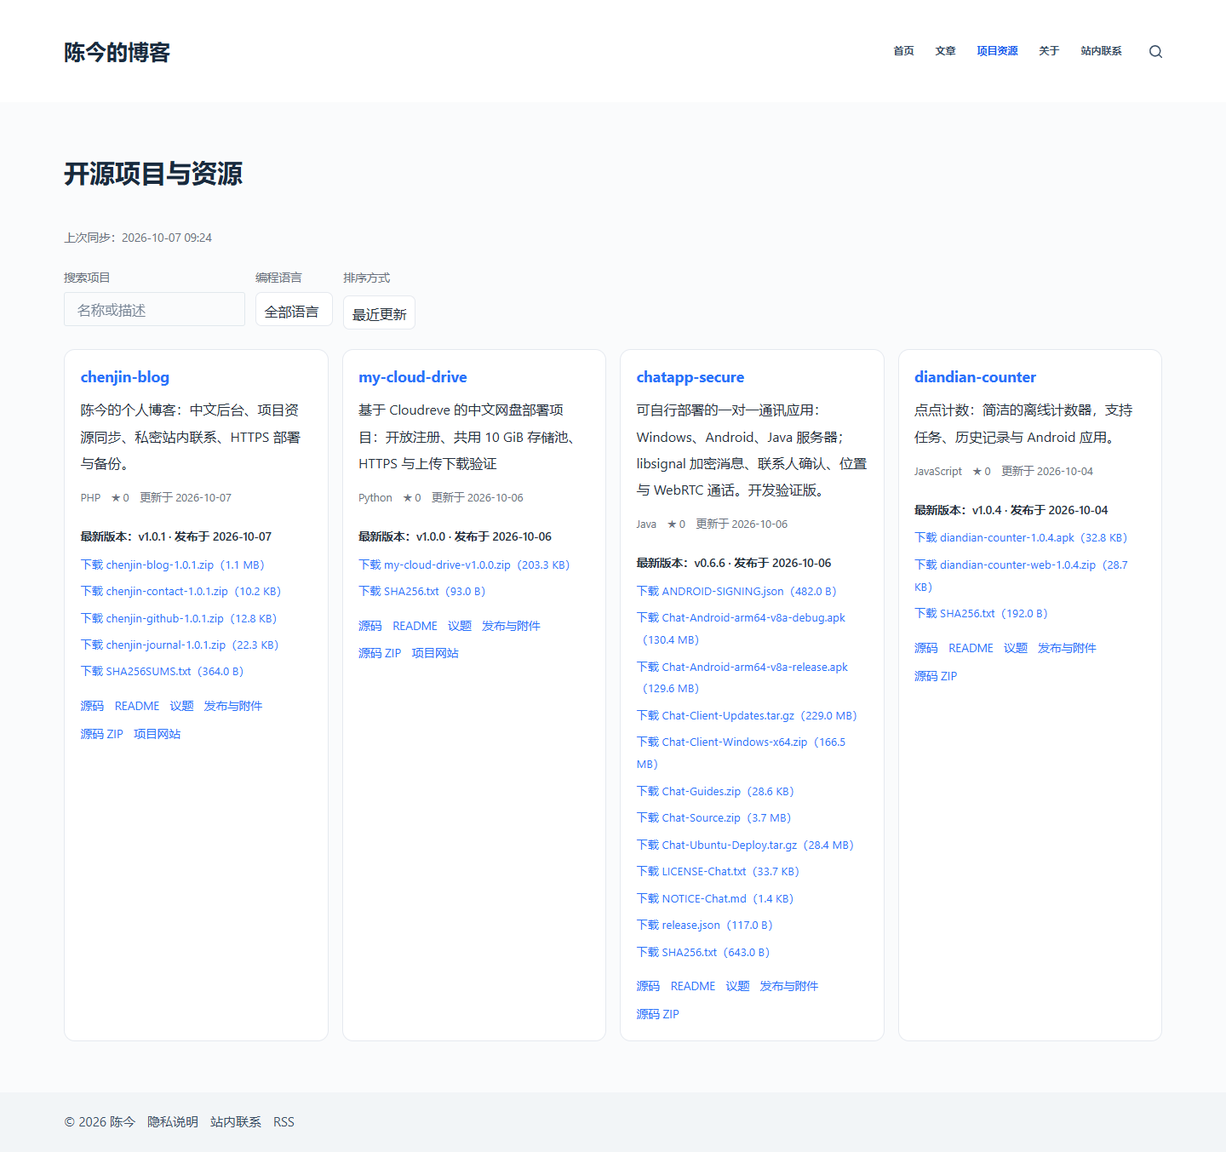
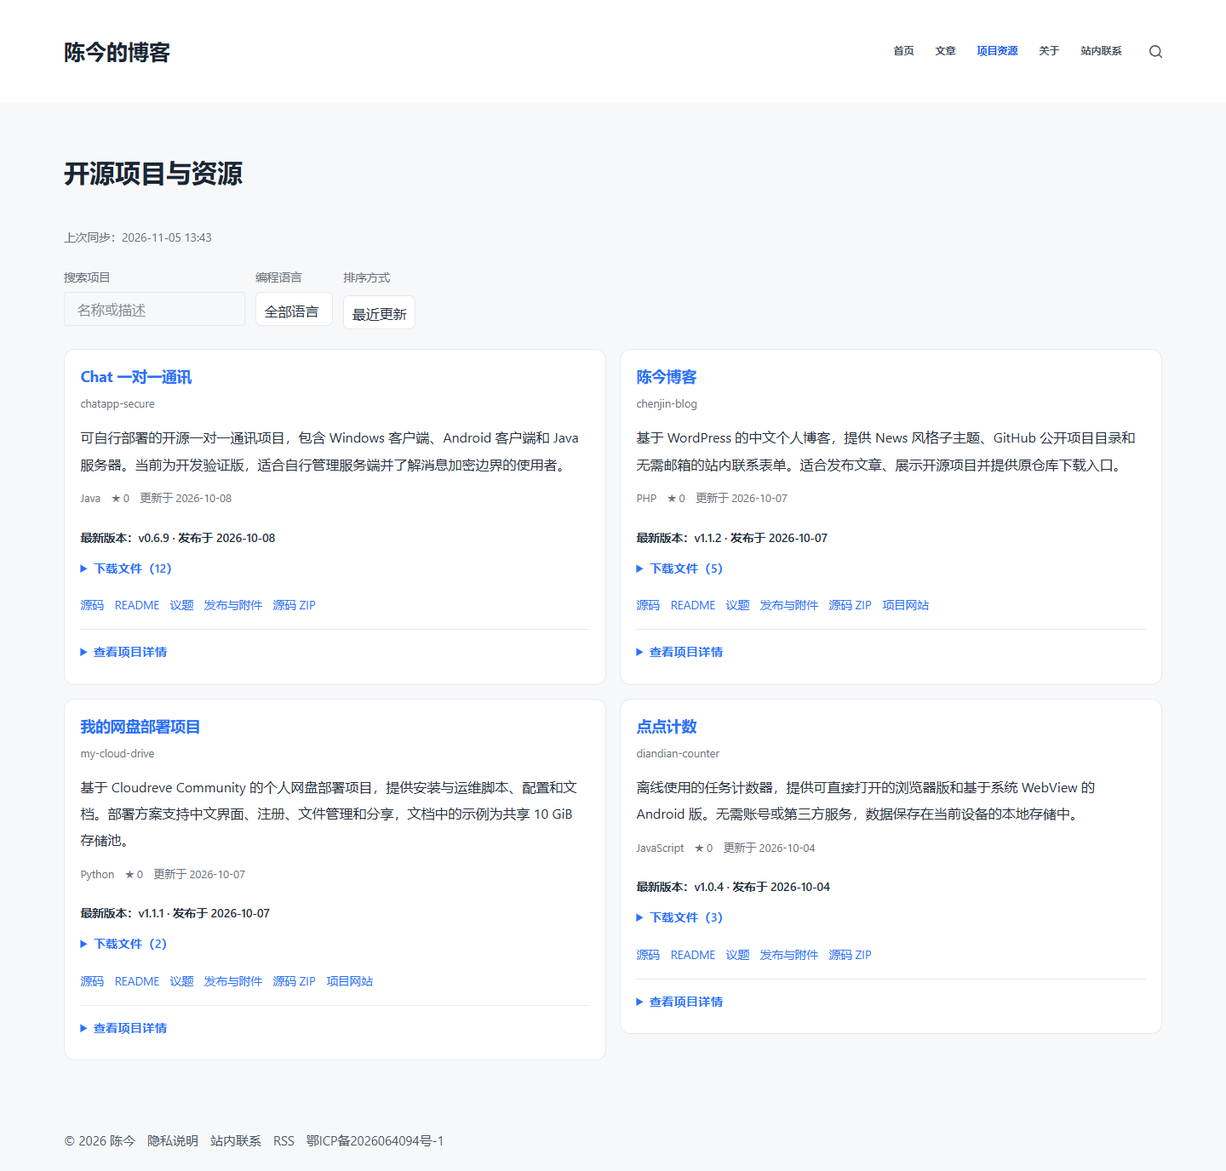
Add reviewed project descriptions, usage guides and expandable repository details

diff --git a/wp-content/plugins/chenjin-github/projects.css b/wp-content/plugins/chenjin-github/projects.css
@@ -5,7 +5,7 @@
 .ws-projects-controls{display:flex;flex-wrap:wrap;gap:.75rem;margin:1rem 0 1.25rem}
 .ws-projects-controls label{display:grid;gap:.3rem;font-size:.85rem;color:var(--ws-muted,#63736a)}
 .ws-projects-controls input,.ws-projects-controls select{min-height:2.4rem;padding:.35rem .6rem;border:1px solid var(--ws-border,#d9e3d9);border-radius:.45rem;background:var(--ws-surface,#fffdf7);color:var(--ws-text,#202b25)}
-.ws-project-grid{display:grid;grid-template-columns:repeat(auto-fit,minmax(min(100%,260px),1fr));gap:1rem}
+.ws-project-grid{display:grid;grid-template-columns:repeat(2,minmax(0,1fr));gap:1rem;align-items:start}
 .ws-project-card{padding:1.15rem;border:1px solid var(--ws-border,#d9e3d9);border-radius:.8rem;background:var(--ws-surface,#fffdf7)}
 .ws-project-card[hidden],.ws-project-filter-empty[hidden]{display:none}
 .ws-project-card h3{margin:0 0 .6rem;font-size:1.1rem;overflow-wrap:anywhere}
@@ -16,3 +16,21 @@
 .ws-project-assets{display:grid;gap:.35rem;margin:0 0 .85rem;font-size:.83rem;overflow-wrap:anywhere}
 .ws-project-links{display:flex;flex-wrap:wrap;gap:.4rem .8rem;font-size:.85rem}
 .ws-project-links a:focus-visible,.ws-project-card h3 a:focus-visible{outline:2px solid var(--ws-accent,#217451);outline-offset:3px}
+.ws-project-repository{margin:-.2rem 0 .7rem;font-size:.8rem;color:var(--ws-muted,#63736a);overflow-wrap:anywhere}
+.ws-project-details{margin-top:1rem;border-top:1px solid var(--ws-border,#d9e3d9);padding-top:.8rem}
+.ws-project-details summary,.ws-project-downloads summary{cursor:pointer;font-weight:600;color:var(--ws-accent,#217451);font-size:.9rem;min-height:32px;line-height:1.8}
+.ws-project-downloads{margin:.65rem 0}
+.ws-project-details summary:focus-visible,.ws-project-downloads summary:focus-visible{outline:2px solid var(--ws-accent,#217451);outline-offset:3px}
+.ws-project-details-body{font-size:.9rem;line-height:1.9;overflow-wrap:anywhere}
+.ws-project-details-body h4{font-size:.95rem;margin:1.1rem 0 .5rem}
+.ws-project-details-body ul,.ws-project-details-body ol{padding-left:1.3rem;margin:.4rem 0}
+.ws-project-details-body li{margin:.3rem 0}
+.ws-project-metadata{display:grid;grid-template-columns:repeat(auto-fit,minmax(min(100%,200px),1fr));gap:.65rem 1.5rem;margin:.5rem 0}
+.ws-project-metadata div{display:grid;grid-template-columns:5.5rem minmax(0,1fr);gap:.4rem}
+.ws-project-metadata dt{font-weight:400;color:var(--ws-muted,#63736a)}
+.ws-project-metadata dd{margin:0}
+.ws-project-topics{display:flex;gap:.4rem;flex-wrap:wrap;margin:1rem 0}
+.ws-project-topics span{font-size:.75rem;border:1px solid var(--ws-border,#d9e3d9);border-radius:20px;padding:.1rem .6rem}
+.ws-project-documentation{display:flex;gap:.5rem 1.2rem;flex-wrap:wrap}
+.ws-project-detail-note{font-size:.8rem;color:var(--ws-muted,#63736a);margin:1rem 0 0}
+@media(max-width:760px){.ws-project-grid{grid-template-columns:minmax(0,1fr)}}

diff --git a/wp-content/plugins/chenjin-github/chenjin-github.php b/wp-content/plugins/chenjin-github/chenjin-github.php
@@ -2,7 +2,7 @@
 /**
  * Plugin Name: 陈今的 GitHub 项目
  * Description: 定时同步公开 GitHub 项目，并用短代码展示。
- * Version: 1.0.0
+ * Version: 1.1.0
  * License: GPL-2.0-or-later
  * Text Domain: chenjin-github
  */
@@ -67,6 +67,14 @@ function ws_github_sync() {
                 'issues' => !empty($repo['has_issues']),
                 'branch' => is_string($repo['default_branch'] ?? null) ? $repo['default_branch'] : '',
                 'homepage' => ws_github_homepage($repo['homepage'] ?? ''),
+                'topics' => array_values(array_filter(is_array($repo['topics'] ?? null) ? array_slice($repo['topics'], 0, 12) : array(), function ($topic) {
+                    return is_string($topic) && preg_match('/^[a-z0-9-]{1,50}$/D', $topic);
+                })),
+                'license' => is_string($repo['license']['spdx_id'] ?? null) && $repo['license']['spdx_id'] !== 'NOASSERTION'
+                    ? $repo['license']['spdx_id'] : '',
+                'created_at' => is_string($repo['created_at'] ?? null) ? $repo['created_at'] : '',
+                'pushed_at' => is_string($repo['pushed_at'] ?? null) ? $repo['pushed_at'] : '',
+                'forks' => max(0, (int) ($repo['forks_count'] ?? 0)),
                 'private' => false,
             );
         }
@@ -167,9 +175,66 @@ register_deactivation_hook(__FILE__, function () { wp_clear_scheduled_hook(WS_GI
 add_action(WS_GITHUB_EVENT, 'ws_github_sync');
 
 add_action('wp_enqueue_scripts', function () {
-    wp_enqueue_style('ws-github', plugins_url('projects.css', __FILE__), array(), '1.0.0');
-    wp_enqueue_script('ws-github', plugins_url('projects.js', __FILE__), array(), '1.0.0', true);
+    wp_enqueue_style('ws-github', plugins_url('projects.css', __FILE__), array(), '1.1.0');
+    wp_enqueue_script('ws-github', plugins_url('projects.js', __FILE__), array(), '1.1.0', true);
 });
+
+/** Reviewed summaries stay separate from untrusted README HTML and personal contact details. */
+function ws_github_project_details($name) {
+    static $catalog = null;
+    if ($catalog === null) {
+        $path = __DIR__ . '/project-details.json';
+        $decoded = is_readable($path) ? json_decode(file_get_contents($path), true) : null;
+        $catalog = is_array($decoded) ? $decoded : array();
+    }
+    return isset($catalog[$name]) && is_array($catalog[$name]) ? $catalog[$name] : array();
+}
+
+function ws_github_render_details($repo, $profile, $base) {
+    ?>
+    <details class="ws-project-details">
+      <summary>查看项目详情</summary>
+      <div class="ws-project-details-body">
+        <?php foreach (array('features' => '核心功能', 'getting_started' => '开始使用', 'notes' => '使用说明') as $key => $heading) : ?>
+          <?php if (!empty($profile[$key]) && is_array($profile[$key])) : ?>
+            <h4><?php echo esc_html($heading); ?></h4>
+            <<?php echo $key === 'getting_started' ? 'ol' : 'ul'; ?>>
+              <?php foreach ($profile[$key] as $text) : if (!is_string($text)) { continue; } ?>
+                <li><?php echo esc_html($text); ?></li>
+              <?php endforeach; ?>
+            </<?php echo $key === 'getting_started' ? 'ol' : 'ul'; ?>>
+          <?php endif; ?>
+        <?php endforeach; ?>
+        <h4>仓库信息</h4>
+        <dl class="ws-project-metadata">
+          <div><dt>主要语言</dt><dd><?php echo esc_html($repo['language'] ?: '未标注'); ?></dd></div>
+          <div><dt>默认分支</dt><dd><?php echo esc_html($repo['branch'] ?: '未标注'); ?></dd></div>
+          <div><dt>许可证</dt><dd><?php echo esc_html($repo['license'] ?? '') ?: '未识别，请查看仓库 LICENSE'; ?></dd></div>
+          <div><dt>Fork 数</dt><dd><?php echo esc_html((string) ($repo['forks'] ?? 0)); ?></dd></div>
+          <?php foreach (array('created_at' => '创建时间', 'pushed_at' => '代码更新') as $key => $label) : ?>
+            <?php if (!empty($repo[$key]) && strtotime($repo[$key])) : ?>
+              <div><dt><?php echo esc_html($label); ?></dt><dd><?php echo esc_html(wp_date('Y-m-d', strtotime($repo[$key]))); ?></dd></div>
+            <?php endif; ?>
+          <?php endforeach; ?>
+        </dl>
+        <?php if (!empty($repo['topics'])) : ?>
+          <p class="ws-project-topics" aria-label="项目标签"><?php foreach ($repo['topics'] as $topic) : ?><span><?php echo esc_html($topic); ?></span><?php endforeach; ?></p>
+        <?php endif; ?>
+        <h4>文档与版本</h4>
+        <div class="ws-project-documentation">
+          <a href="<?php echo esc_url($base . '#readme'); ?>" target="_blank" rel="noopener noreferrer">阅读完整使用说明 ↗</a>
+          <a href="<?php echo esc_url($base . '/releases'); ?>" target="_blank" rel="noopener noreferrer">版本说明与历史下载 ↗</a>
+          <?php foreach ($profile['links'] ?? array() as $link) : ?>
+            <?php if (!is_array($link) || !is_string($link['label'] ?? null) || !is_string($link['url'] ?? null) || strpos($link['url'], $base . '/') !== 0) { continue; } ?>
+            <a href="<?php echo esc_url($link['url']); ?>" target="_blank" rel="noopener noreferrer"><?php echo esc_html($link['label']); ?> ↗</a>
+          <?php endforeach; ?>
+        </div>
+        <?php if (!$profile) : ?><p class="ws-project-detail-note">更多功能、安装步骤与部署要求请查看项目 README；尚未编写独立的项目摘要。</p><?php endif; ?>
+        <?php if (!empty($profile['verified_on'])) : ?><p class="ws-project-detail-note">项目介绍整理自公开仓库文档，核对日期：<?php echo esc_html($profile['verified_on']); ?>。后续变更以仓库最新说明为准。</p><?php endif; ?>
+      </div>
+    </details>
+    <?php
+}
 
 function ws_github_shortcode($atts) {
     $atts = shortcode_atts(array('limit' => 0), $atts, 'ws_projects');
@@ -194,7 +259,7 @@ function ws_github_shortcode($atts) {
       <?php if (!empty($error['message'])) : ?><p class="ws-projects-error" role="status"><?php echo !empty($error['partial']) ? esc_html($error['message']) : '同步暂时失败，当前显示上次成功的数据。'; ?><?php echo $updated ? '上次同步：' . esc_html($updated) : '暂时没有可用的项目数据。'; ?></p><?php endif; ?>
       <?php if ($repos && !$limit) : ?>
         <div class="ws-projects-controls">
-          <label>搜索项目 <input class="ws-project-search" type="search" placeholder="名称或描述" autocomplete="off"></label>
+          <label>搜索项目 <input class="ws-project-search" type="search" placeholder="名称、功能或技术标签" autocomplete="off"></label>
           <label>编程语言 <select class="ws-project-language"><option value="">全部语言</option><?php
             $languages = array_unique(array_filter(array_column($repos, 'language')));
             natcasesort($languages);
@@ -211,10 +276,14 @@ function ws_github_shortcode($atts) {
             $base = 'https://github.com/' . WS_GITHUB_USER . '/' . rawurlencode($name);
             $branch = $repo['branch'] ?? '';
             $date = !empty($repo['updated_at']) && strtotime($repo['updated_at']) ? wp_date('Y-m-d', strtotime($repo['updated_at'])) : '';
-            $description = $repo['description'] ?: '暂无项目简介。';
+            $profile = ws_github_project_details($name);
+            $description = !empty($profile['summary']) ? $profile['summary'] : ($repo['description'] ?: '暂无项目简介。');
+            $title = !empty($profile['title']) ? $profile['title'] : $name;
+            $search_text = implode(' ', array_merge(array($name, $title, $description), $profile['features'] ?? array(), $repo['topics'] ?? array()));
             ?>
-          <article class="ws-project-card" data-search="<?php echo esc_attr(strtolower($name . ' ' . $description)); ?>" data-language="<?php echo esc_attr($repo['language']); ?>" data-stars="<?php echo esc_attr((string) $repo['stars']); ?>" data-updated="<?php echo esc_attr($repo['updated_at']); ?>" data-name="<?php echo esc_attr(strtolower($name)); ?>">
-            <h3><a href="<?php echo esc_url($base); ?>" target="_blank" rel="noopener noreferrer"><?php echo esc_html($name); ?></a></h3>
+          <article class="ws-project-card" data-search="<?php echo esc_attr(strtolower($search_text)); ?>" data-language="<?php echo esc_attr($repo['language']); ?>" data-stars="<?php echo esc_attr((string) $repo['stars']); ?>" data-updated="<?php echo esc_attr($repo['updated_at']); ?>" data-name="<?php echo esc_attr(strtolower($name)); ?>">
+            <h3><a href="<?php echo esc_url($base); ?>" target="_blank" rel="noopener noreferrer"><?php echo esc_html($title); ?></a></h3>
+            <?php if ($title !== $name) : ?><p class="ws-project-repository"><?php echo esc_html($name); ?></p><?php endif; ?>
             <p class="ws-project-description"><?php echo esc_html($description); ?></p>
             <p class="ws-project-facts">
               <?php if ($repo['language']) : ?><span><?php echo esc_html($repo['language']); ?></span><?php endif; ?>
@@ -229,9 +298,9 @@ function ws_github_shortcode($atts) {
                     echo ' · 发布于 ' . esc_html(wp_date('Y-m-d', strtotime($repo['release']['published_at'])));
                 }
               ?></p>
-              <?php if (!empty($repo['release']['assets'])) : ?><div class="ws-project-assets" aria-label="最新版本下载资源"><?php foreach ($repo['release']['assets'] as $asset) : ?>
+              <?php if (!empty($repo['release']['assets'])) : ?><details class="ws-project-downloads"><summary>下载文件（<?php echo esc_html((string) count($repo['release']['assets'])); ?>）</summary><div class="ws-project-assets" aria-label="最新版本下载资源"><?php foreach ($repo['release']['assets'] as $asset) : ?>
                 <a href="<?php echo esc_url($asset['url']); ?>" target="_blank" rel="noopener noreferrer">下载 <?php echo esc_html($asset['name']); ?><?php if (!empty($asset['size'])) : ?>（<?php echo esc_html(size_format($asset['size'], 1)); ?>）<?php endif; ?></a>
-              <?php endforeach; ?></div><?php endif; ?>
+              <?php endforeach; ?></div></details><?php endif; ?>
             <?php endif; ?>
             <div class="ws-project-links">
               <a href="<?php echo esc_url($base); ?>" target="_blank" rel="noopener noreferrer">源码</a>
@@ -241,6 +310,7 @@ function ws_github_shortcode($atts) {
               <?php if ($branch) : ?><a href="<?php echo esc_url('https://github.com/' . WS_GITHUB_USER . '/' . rawurlencode($name) . '/archive/refs/heads/' . rawurlencode($branch) . '.zip'); ?>">源码 ZIP</a><?php endif; ?>
               <?php if (!empty($repo['homepage'])) : ?><a href="<?php echo esc_url($repo['homepage']); ?>" target="_blank" rel="noopener noreferrer">项目网站</a><?php endif; ?>
             </div>
+            <?php ws_github_render_details($repo, $profile, $base); ?>
           </article>
         <?php endforeach; ?>
       </div>

diff --git a/wp-content/plugins/chenjin-github/test-sync.php b/wp-content/plugins/chenjin-github/test-sync.php
@@ -26,6 +26,12 @@ function register_activation_hook($file, $callback) {}
 function register_deactivation_hook($file, $callback) {}
 function add_action($hook, $callback) {}
 function add_shortcode($name, $callback) {}
+function esc_html($value) { return htmlspecialchars((string) $value, ENT_QUOTES, 'UTF-8'); }
+function esc_attr($value) { return esc_html($value); }
+function esc_url($value) { return esc_html($value); }
+function wp_date($format, $time = null) { return gmdate($format, $time ?? time()); }
+function shortcode_atts($defaults, $atts, $name) { return array_merge($defaults, $atts); }
+function size_format($size, $precision) { return (string) $size; }
 
 require __DIR__ . '/chenjin-github.php';
 
@@ -33,7 +39,10 @@ function repo($id, $private = false) {
     return array('id' => $id, 'name' => 'repo-' . $id, 'owner' => array('login' => WS_GITHUB_USER),
         'private' => $private, 'description' => '', 'language' => 'PHP', 'stargazers_count' => $id,
         'updated_at' => '2026-01-01T00:00:00Z', 'archived' => false, 'fork' => true,
-        'has_issues' => true, 'default_branch' => 'feature/one', 'homepage' => 'https://example.org');
+        'has_issues' => true, 'default_branch' => 'feature/one', 'homepage' => 'https://example.org',
+        'topics' => array('offline-first', '<script>bad</script>', 42),
+        'license' => array('spdx_id' => 'MIT'), 'forks_count' => 3,
+        'created_at' => '2025-01-01T00:00:00Z', 'pushed_at' => '2026-01-01T00:00:00Z');
 }
 function response($body, $code = 200) { return array('code' => $code, 'body' => json_encode($body)); }
 function check($condition, $message) { if (!$condition) { throw new Exception($message); } }
@@ -54,6 +63,8 @@ check(count($snapshot['repos']) === 100 && $snapshot['repos'][6]['name'] === 're
 check(count($requests) === 102 && strpos($requests[1][0], 'page=2') !== false, 'Page 2 or releases were not fetched');
 check($requests[0][1]['redirection'] === 0, 'Redirects must be disabled');
 check(count($snapshot['repos'][0]['release']['assets']) === 1, 'Release asset URL validation failed');
+check($snapshot['repos'][0]['topics'] === array('offline-first'), 'Untrusted topic data was not filtered');
+check($snapshot['repos'][0]['license'] === 'MIT' && $snapshot['repos'][0]['forks'] === 3, 'Project metadata missing');
 $responses = array(response(array(repo(1))), response(array(), 503));
 check(ws_github_sync() === 1, 'Partial release failure interrupted repository sync');
 $partial = get_option(WS_GITHUB_DATA);
@@ -63,4 +74,27 @@ $responses = array(response(array(repo(999)), 403));
 check(is_wp_error(ws_github_sync()), 'HTTP failure was ignored');
 check(get_option(WS_GITHUB_DATA) === $partial, 'Failure replaced the last good snapshot');
 check((bool) get_option(WS_GITHUB_ERROR), 'Failure status was not saved');
+
+$base = 'https://github.com/' . WS_GITHUB_USER . '/repo-1';
+$profile = array(
+    'features' => array('<script>alert(1)</script>'),
+    'getting_started' => array('Download from the repository'),
+    'notes' => array('Only reviewed public information'),
+    'links' => array(
+        array('label' => 'Valid documentation', 'url' => $base . '/blob/main/README.md'),
+        array('label' => 'External link', 'url' => 'https://example.com/private'),
+        array('label' => 'Injected link', 'url' => 'javascript:alert(1)'),
+    ),
+    'verified_on' => '2026-11-05',
+);
+ob_start();
+ws_github_render_details($snapshot['repos'][0], $profile, $base);
+$html = ob_get_clean();
+check(strpos($html, '<script>') === false && strpos($html, '&lt;script&gt;') !== false, 'Detail content must be escaped');
+check(strpos($html, 'Valid documentation') !== false && strpos($html, 'example.com/private') === false && strpos($html, 'javascript:') === false, 'Detail links must stay in the public repository');
+check(strpos($html, '<ol>') !== false && strpos($html, 'MIT') !== false && strpos($html, '2025-01-01') !== false, 'Detail sections or metadata missing');
+check(ws_github_project_details('unknown-future-project') === array(), 'New projects must have a safe detail fallback');
+check(!empty(ws_github_project_details('chenjin-blog')['features']), 'Reviewed project catalog missing');
+$page = ws_github_shortcode(array());
+check(strpos($page, 'ws-project-details') !== false && strpos($page, 'README') !== false, 'Existing cached projects must render details without re-sync');
 echo "同步检查通过\n";

diff --git a/README.md b/README.md
@@ -6,7 +6,7 @@
 
 基于 WordPress 的中文个人博客，包含 News 风格子主题、GitHub 公开项目目录和无需邮箱的私密联系表单。适合在个人博客中同时发布文章、展示开源作品和提供项目下载入口。
 
-[在线演示](https://121.43.101.242/blog/) · [项目资源页](https://121.43.101.242/blog/projects/) · [下载最新版本](https://github.com/wobuyaoquminga/chenjin-blog/releases/latest) · [报告问题](https://github.com/wobuyaoquminga/chenjin-blog/issues)
+[在线演示](https://nixiang.me/blog/) · [项目资源页](https://nixiang.me/blog/projects/) · [下载最新版本](https://github.com/wobuyaoquminga/chenjin-blog/releases/latest) · [报告问题](https://github.com/wobuyaoquminga/chenjin-blog/issues)
 
 ![桌面首页](docs/screenshots/home-desktop.png)
 
@@ -20,7 +20,7 @@
 ## 功能
 
 - **文章与阅读**：使用 WordPress 原生文章、分类、标签、草稿、修订、定时发布、媒体、搜索、分页和 RSS；子主题提供文章目录、代码复制及桌面/手机布局。
-- **项目与下载**：分页读取 GitHub 公开仓库，包含 Fork 与归档项目；支持搜索、语言筛选、排序、README、源码、Issues、最新 Release 和附件下载。同步失败保留最近成功的缓存。
+- **项目与下载**：分页读取 GitHub 公开仓库，包含 Fork 与归档项目；支持搜索、语言筛选、排序、README、源码、Issues、最新 Release 和附件下载。项目卡片可展开功能介绍、使用步骤、许可证、技术标签和部署文档；同步失败保留最近成功的缓存。
 - **私密联系**：访客填写昵称、主题和正文，无需邮箱；管理员在「站内来信」查看和删除。来信不进入公开搜索、RSS 或 REST API。
 - **管理与运维**：中文后台、评论审核、可自定义导航和 Logo；服务器部署方案包含独立 PHP-FPM、定时任务、登录重试限制与数据库/文件备份。
 
@@ -30,9 +30,9 @@
 
 从 [Releases](https://github.com/wobuyaoquminga/chenjin-blog/releases/latest) 选择所需文件：
 
-- `chenjin-blog-1.1.2.zip`：完整源码、部署脚本、文档和截图。
+- `chenjin-blog-1.2.0.zip`：完整源码、部署脚本、文档和截图。
 - `chenjin-news-1.1.1.zip`：可通过 WordPress 后台上传的子主题。
-- `chenjin-github-1.0.0.zip`：GitHub 公开项目同步插件。
+- `chenjin-github-1.1.0.zip`：GitHub 公开项目同步与详情插件。
 - `chenjin-contact-1.0.0.zip`：站内联系插件。
 - `SHA256SUMS.txt`：上述文件的 SHA-256 校验值。
 
@@ -113,4 +113,4 @@ docs/                              文档与截图
 
 本仓库自定义代码以 [GPL-2.0-or-later](LICENSE) 发布，上游组件保留各自许可证。文章和各项目下载资源适用其自身声明。
 
-功能问题请提交 [Issue](https://github.com/wobuyaoquminga/chenjin-blog/issues/new/choose)，修复欢迎提交 Pull Request。安全问题或私密联系请使用 [站内联系](https://121.43.101.242/blog/contact/)，不要在公开仓库提交个人资料、密码、Cookie、私钥或数据库。
+功能问题请提交 [Issue](https://github.com/wobuyaoquminga/chenjin-blog/issues/new/choose)，修复欢迎提交 Pull Request。安全问题或私密联系请使用 [站内联系](https://nixiang.me/blog/contact/)，不要在公开仓库提交个人资料、密码、Cookie、私钥或数据库。

diff --git a/docs/VALIDATION.md b/docs/VALIDATION.md
@@ -1,5 +1,13 @@
 # 验证记录
 
+## 项目详情复验（1.2.0，2026-11-05）
+
+- 实测当前域名 `https://nixiang.me/blog/` 与 `/projects/` 返回 200，博客进程池和系统 Cron 已启用；历史停止记录不代表当前运行状态。
+- 四个当前公开仓库均有中文介绍、核心功能、开始使用、使用说明和对应文档入口。资料来自各公开仓库 README，人工核对并注明日期。
+- 同步检查验证新增元数据、标签过滤、旧数据失败保留、详情文本转义、仓库内链接范围和未知项目回退。
+- Chrome 验证四个项目的详情展开/收起、下载清单展开、中文功能搜索、桌面布局与 390px 手机无横向溢出；未出现 JavaScript 错误。
+- 已在生产更新前运行服务器备份。此次只更新 GitHub 项目插件，保留当前主题与备案信息。
+
 首次验收：2026-10-06；身份与导航修复复验：2026-10-07。访问入口：<https://121.43.101.242/blog/>。
 
 ## 旧主题移除（1.1.1，2026-10-07）

diff --git a/docs/USER-GUIDE.md b/docs/USER-GUIDE.md
@@ -27,6 +27,8 @@
 
 资源来自 GitHub 公开 API。同步失败时保留最近成功的数据；下载入口直接指向原仓库。新建公开仓库后，下次同步会自动加入。
 
+点击项目卡片的「查看项目详情」，可阅读核心功能、开始使用、使用说明和对应文档链接。仓库的许可证、默认分支、创建时间、代码更新时间、Fork 数和技术标签随同步更新。中文名称、功能摘要和使用步骤根据公开 README 整理，保存在插件的 `project-details.json`，页面标明核对日期；这些介绍不会自动随 README 更新，需要维护者核对后修改。新仓库没有整理摘要时仍显示仓库信息与 README/版本入口。
+
 ## 评论与媒体
 
 「评论」中审核、回复或删除评论。默认所有访客评论需要审核；不会直接公开访客邮箱。无需开放访客账号注册。

diff --git a/CHANGELOG.md b/CHANGELOG.md
@@ -1,5 +1,11 @@
 # 更新记录
 
+## 1.2.0 — 2026-11-05
+
+- GitHub 项目插件升级为 1.1.0，新增可展开的项目详情、中文名称、核心功能、使用步骤、使用说明和部署文档入口。
+- 同步许可证、技术标签、默认分支、创建/代码更新时间和 Fork 数；摘要按公开 README 人工核对并标注日期。
+- 增加详情转义、链接范围、旧缓存兼容与桌面/手机展开交互检查。
+
 ## 1.1.2 — 2026-10-07
 
 - 面向公开仓库重写 README，补充组件下载、已有 WordPress 安装、短代码示例与功能边界。
